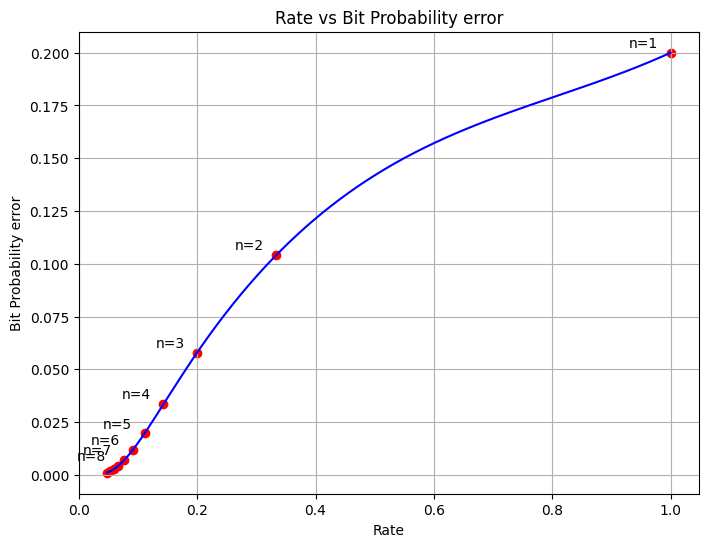
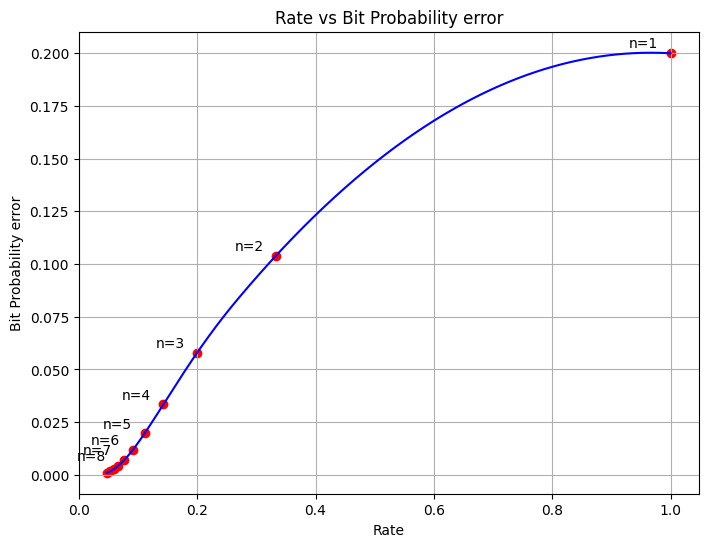
quadra interp

diff --git a/docs/posts/noisy.html b/docs/posts/noisy.html
@@ -207,7 +207,7 @@ pre > code.sourceCode > span > a:first-child::before { text-decoration: underlin
 <h2 class="anchored" data-anchor-id="limitations">Limitations</h2>
 <p>Even though the bit probability error is reduced, it could still be significant. There could still be two bits or more flipped in a 3-sized subset in the above example. Increasing the number n will reduce the bit probability error but in doing so we slow down the message. If we define rate as <span class="math inline">\(\text{rate}=\hspace{0.1cm}\frac{\text{length of original string}}{\text{length  of encoded string}}\)</span>. On increasing n, the length of the encoded string increases and so the rate decreases and the message takes more time for transmission.</p>
 <p>Following is a plot of n vs bit probability error.</p>
-<div class="cell" data-execution_count="80">
+<div class="cell" data-execution_count="1">
 <div class="sourceCode cell-code" id="cb1"><pre class="sourceCode python code-with-copy"><code class="sourceCode python"><span id="cb1-1"><a href="#cb1-1" aria-hidden="true" tabindex="-1"></a><span class="im">from</span> math <span class="im">import</span> factorial <span class="im">as</span> f</span>
 <span id="cb1-2"><a href="#cb1-2" aria-hidden="true" tabindex="-1"></a></span>
 <span id="cb1-3"><a href="#cb1-3" aria-hidden="true" tabindex="-1"></a><span class="kw">def</span> nck(n,k):</span>
@@ -231,31 +231,31 @@ pre > code.sourceCode > span > a:first-child::before { text-decoration: underlin
 <pre><code>Reduced bit probability error is 0.104</code></pre>
 </div>
 </div>
-<div class="cell" data-execution_count="81">
+<div class="cell" data-execution_count="2">
 <div class="sourceCode cell-code" id="cb3"><pre class="sourceCode python code-with-copy"><code class="sourceCode python"><span id="cb3-1"><a href="#cb3-1" aria-hidden="true" tabindex="-1"></a><span class="im">import</span> numpy <span class="im">as</span> np</span>
 <span id="cb3-2"><a href="#cb3-2" aria-hidden="true" tabindex="-1"></a><span class="im">import</span> matplotlib.pyplot <span class="im">as</span> plt</span>
 <span id="cb3-3"><a href="#cb3-3" aria-hidden="true" tabindex="-1"></a></span>
 <span id="cb3-4"><a href="#cb3-4" aria-hidden="true" tabindex="-1"></a>n_range <span class="op">=</span> np.arange(<span class="dv">1</span>,<span class="dv">22</span>,<span class="dv">2</span>)</span>
 <span id="cb3-5"><a href="#cb3-5" aria-hidden="true" tabindex="-1"></a>rate <span class="op">=</span> <span class="dv">1</span><span class="op">/</span>n_range</span>
 <span id="cb3-6"><a href="#cb3-6" aria-hidden="true" tabindex="-1"></a>n_range,rate</span></code><button title="Copy to Clipboard" class="code-copy-button"><i class="bi"></i></button></pre></div>
-<div class="cell-output cell-output-display" data-execution_count="81">
+<div class="cell-output cell-output-display" data-execution_count="2">
 <pre><code>(array([ 1,  3,  5,  7,  9, 11, 13, 15, 17, 19, 21]),
  array([1.        , 0.33333333, 0.2       , 0.14285714, 0.11111111,
         0.09090909, 0.07692308, 0.06666667, 0.05882353, 0.05263158,
         0.04761905]))</code></pre>
 </div>
 </div>
-<div class="cell" data-execution_count="82">
+<div class="cell" data-execution_count="3">
 <div class="sourceCode cell-code" id="cb5"><pre class="sourceCode python code-with-copy"><code class="sourceCode python"><span id="cb5-1"><a href="#cb5-1" aria-hidden="true" tabindex="-1"></a>reduced_probability <span class="op">=</span> [bit_probability_error(i,<span class="fl">0.2</span>) <span class="cf">for</span> i <span class="kw">in</span> n_range]</span>
 <span id="cb5-2"><a href="#cb5-2" aria-hidden="true" tabindex="-1"></a>reduced_probability <span class="op">=</span> np.array(reduced_probability)</span>
 <span id="cb5-3"><a href="#cb5-3" aria-hidden="true" tabindex="-1"></a>reduced_probability</span></code><button title="Copy to Clipboard" class="code-copy-button"><i class="bi"></i></button></pre></div>
-<div class="cell-output cell-output-display" data-execution_count="82">
+<div class="cell-output cell-output-display" data-execution_count="3">
 <pre><code>array([0.2       , 0.104     , 0.05792   , 0.033344  , 0.01958144,
        0.01165421, 0.00700356, 0.00423975, 0.00258146, 0.00157912,
        0.0009697 ])</code></pre>
 </div>
 </div>
-<div class="cell" data-execution_count="83">
+<div class="cell" data-execution_count="4">
 <div class="sourceCode cell-code" id="cb7"><pre class="sourceCode python code-with-copy"><code class="sourceCode python"><span id="cb7-1"><a href="#cb7-1" aria-hidden="true" tabindex="-1"></a>plt.plot(n_range,reduced_probability,marker<span class="op">=</span><span class="st">'o'</span>)</span>
 <span id="cb7-2"><a href="#cb7-2" aria-hidden="true" tabindex="-1"></a>plt.title(<span class="st">"n vs bit probability error"</span>)</span>
 <span id="cb7-3"><a href="#cb7-3" aria-hidden="true" tabindex="-1"></a>plt.xlabel(<span class="st">"n"</span>)</span>
@@ -267,10 +267,10 @@ pre > code.sourceCode > span > a:first-child::before { text-decoration: underlin
 </div>
 </div>
 <p>Let’s also plot rate vs bit probability error</p>
-<div class="cell" data-execution_count="100">
+<div class="cell" data-execution_count="10">
 <div class="sourceCode cell-code" id="cb8"><pre class="sourceCode python code-with-copy"><code class="sourceCode python"><span id="cb8-1"><a href="#cb8-1" aria-hidden="true" tabindex="-1"></a><span class="im">from</span> scipy.interpolate <span class="im">import</span> interp1d</span>
 <span id="cb8-2"><a href="#cb8-2" aria-hidden="true" tabindex="-1"></a></span>
-<span id="cb8-3"><a href="#cb8-3" aria-hidden="true" tabindex="-1"></a>interp <span class="op">=</span> interp1d(rate, reduced_probability, kind<span class="op">=</span><span class="st">'cubic'</span>)</span>
+<span id="cb8-3"><a href="#cb8-3" aria-hidden="true" tabindex="-1"></a>interp <span class="op">=</span> interp1d(rate, reduced_probability, kind<span class="op">=</span><span class="st">'quadratic'</span>)</span>
 <span id="cb8-4"><a href="#cb8-4" aria-hidden="true" tabindex="-1"></a>fine_rate <span class="op">=</span> np.linspace(rate.<span class="bu">min</span>(), rate.<span class="bu">max</span>(), <span class="dv">5000</span>)</span>
 <span id="cb8-5"><a href="#cb8-5" aria-hidden="true" tabindex="-1"></a>smooth_reduced_probability <span class="op">=</span> interp(fine_rate)</span>
 <span id="cb8-6"><a href="#cb8-6" aria-hidden="true" tabindex="-1"></a>plt.figure(figsize<span class="op">=</span>(<span class="dv">8</span>, <span class="dv">6</span>))</span>
@@ -303,7 +303,7 @@ pre > code.sourceCode > span > a:first-child::before { text-decoration: underlin
 \end{cases}
 \]</span></p>
 <p>Following is the plot for the same.</p>
-<div class="cell" data-execution_count="156">
+<div class="cell">
 <div class="sourceCode cell-code" id="cb9"><pre class="sourceCode python code-with-copy"><code class="sourceCode python"><span id="cb9-1"><a href="#cb9-1" aria-hidden="true" tabindex="-1"></a><span class="kw">def</span> channel_capacity(p):</span>
 <span id="cb9-2"><a href="#cb9-2" aria-hidden="true" tabindex="-1"></a>    <span class="cf">return</span> <span class="dv">1</span> <span class="op">-</span> (p<span class="op">*</span>np.log2(<span class="dv">1</span><span class="op">/</span>p) <span class="op">+</span> (<span class="dv">1</span><span class="op">-</span>p)<span class="op">*</span>np.log2(<span class="dv">1</span><span class="op">/</span><span class="dv">1</span><span class="op">-</span>p))</span>
 <span id="cb9-3"><a href="#cb9-3" aria-hidden="true" tabindex="-1"></a></span>

diff --git a/docs/index.html b/docs/index.html
@@ -198,7 +198,7 @@ Vannsh Jani
 </a>
 </div>
 </div>
-<div class="quarto-post image-right" data-index="1" data-categories="Information Theory,ML" data-listing-date-sort="1698690600000" data-listing-file-modified-sort="1700215609586" data-listing-date-modified-sort="NaN" data-listing-reading-time-sort="6">
+<div class="quarto-post image-right" data-index="1" data-categories="Information Theory,ML" data-listing-date-sort="1698690600000" data-listing-file-modified-sort="1700332257711" data-listing-date-modified-sort="NaN" data-listing-reading-time-sort="6">
 <div class="thumbnail">
 <p><a href="./posts/noisy.html"> <p class="card-img-top"><img src="posts/noisy_files/figure-html/cell-5-output-1.png"  class="thumbnail-image card-img"/></p> </a></p>
 </div>
